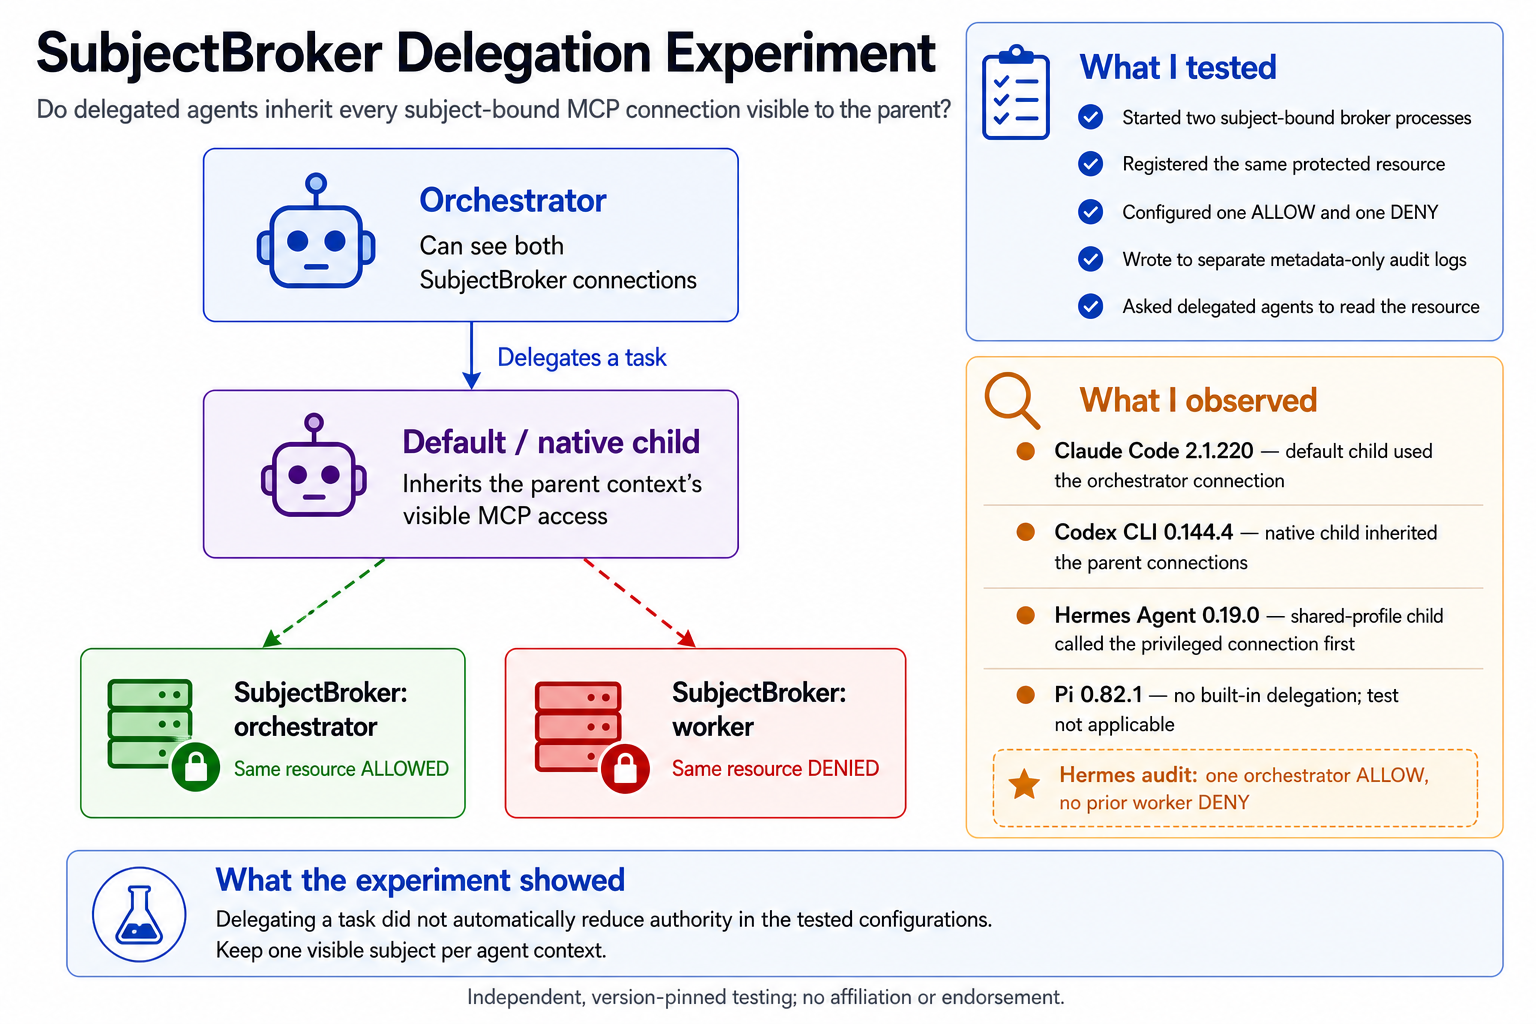
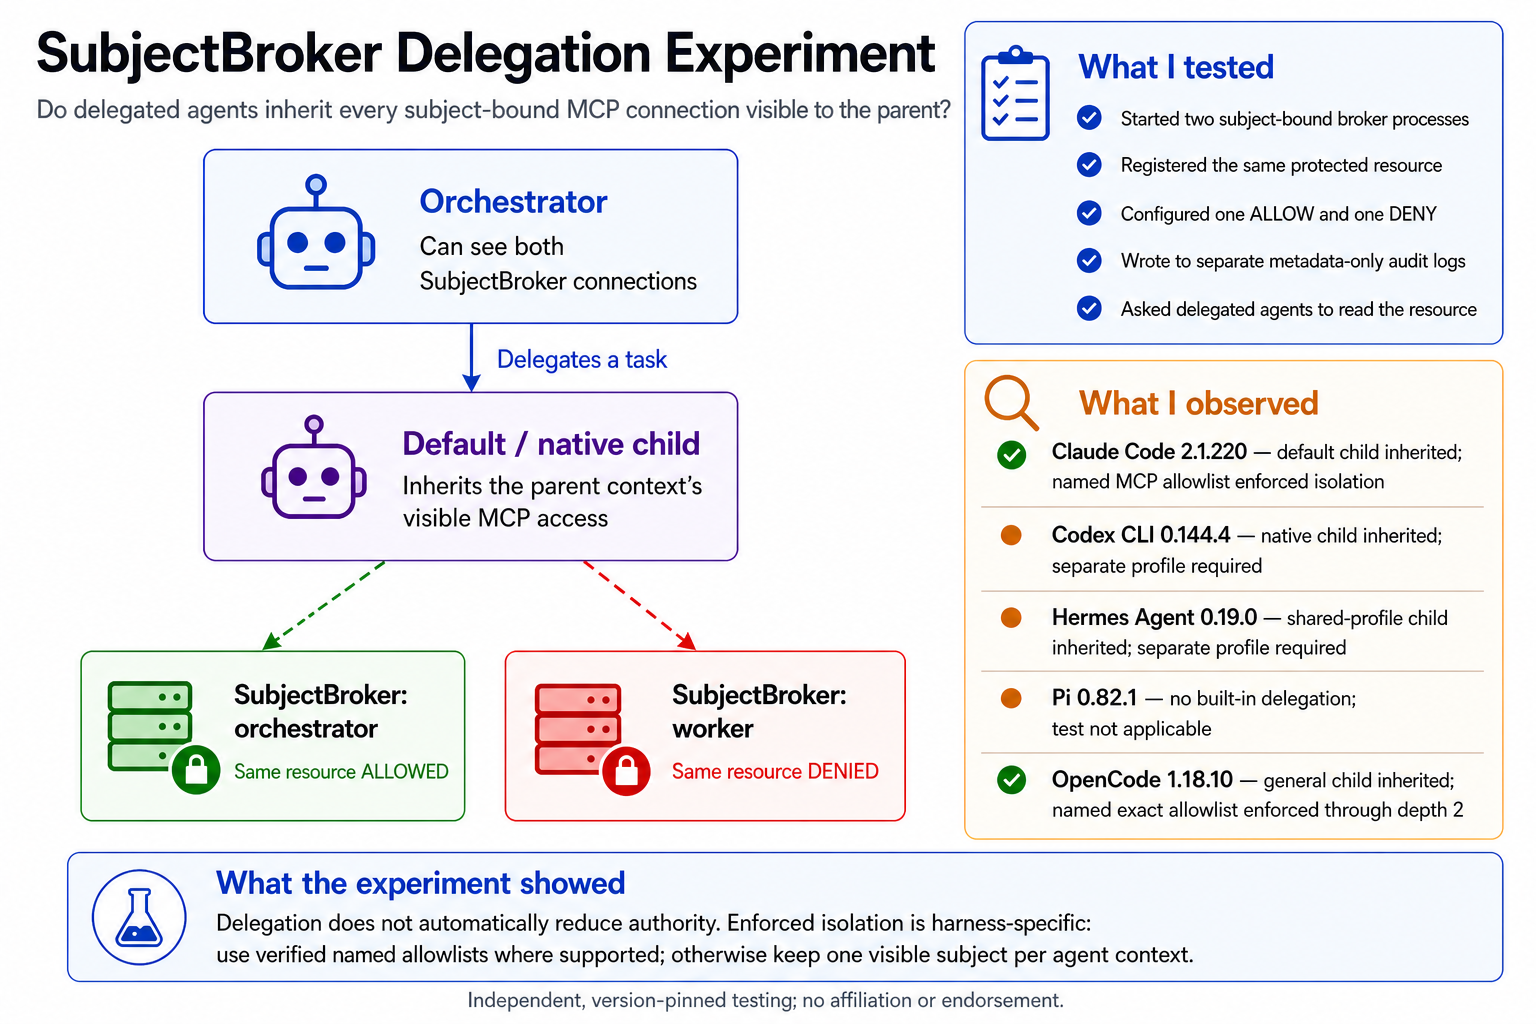
Update delegation experiment infographic

diff --git a/README.md b/README.md
@@ -158,11 +158,12 @@ The implemented macOS path includes:
 
 These are version-pinned integration results, not universal claims about future releases.
 
-![SubjectBroker delegation experiment showing the unsafe shared-context setup, the five test steps, and version-pinned observations for Claude Code, Codex CLI, Hermes Agent, and Pi.](docs/assets/delegation-inheritance-test.png)
+![SubjectBroker delegation experiment showing the unsafe shared-context setup, the five test steps, and version-pinned observations for Claude Code, Codex CLI, Hermes Agent, Pi, and OpenCode. Claude Code and OpenCode also have verified named-agent allowlist configurations.](docs/assets/delegation-inheritance-test.png)
 
-*Experiment setup and version-pinned observations showing that delegation did not automatically
-reduce visible SubjectBroker authority in the tested configurations. The table below provides
-the accessible text summary and links to the exact integration boundaries.*
+*Experiment setup and version-pinned observations showing that delegation does not automatically
+reduce visible SubjectBroker authority. Claude Code and OpenCode also demonstrated
+configuration-dependent isolation through verified named-agent allowlists. The table below
+provides the accessible text summary and links to the exact integration boundaries.*
 
 | Harness | Observed delegation behavior | Supported distinct-subject topology |
 | --- | --- | --- |
